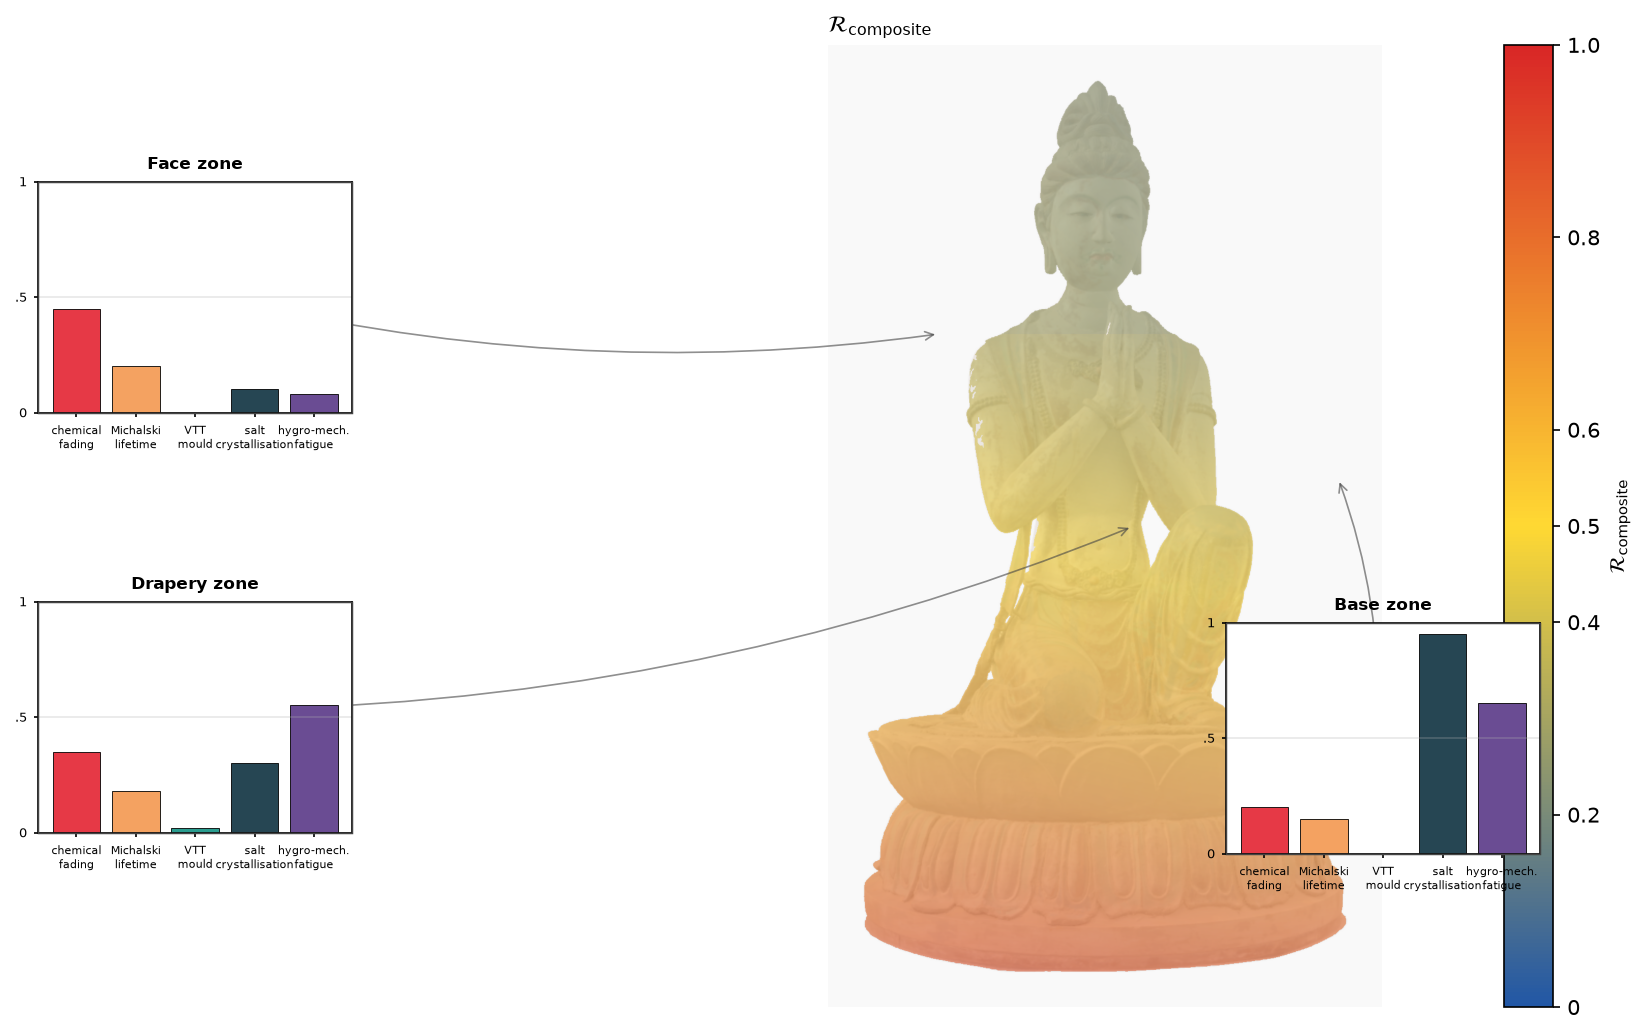
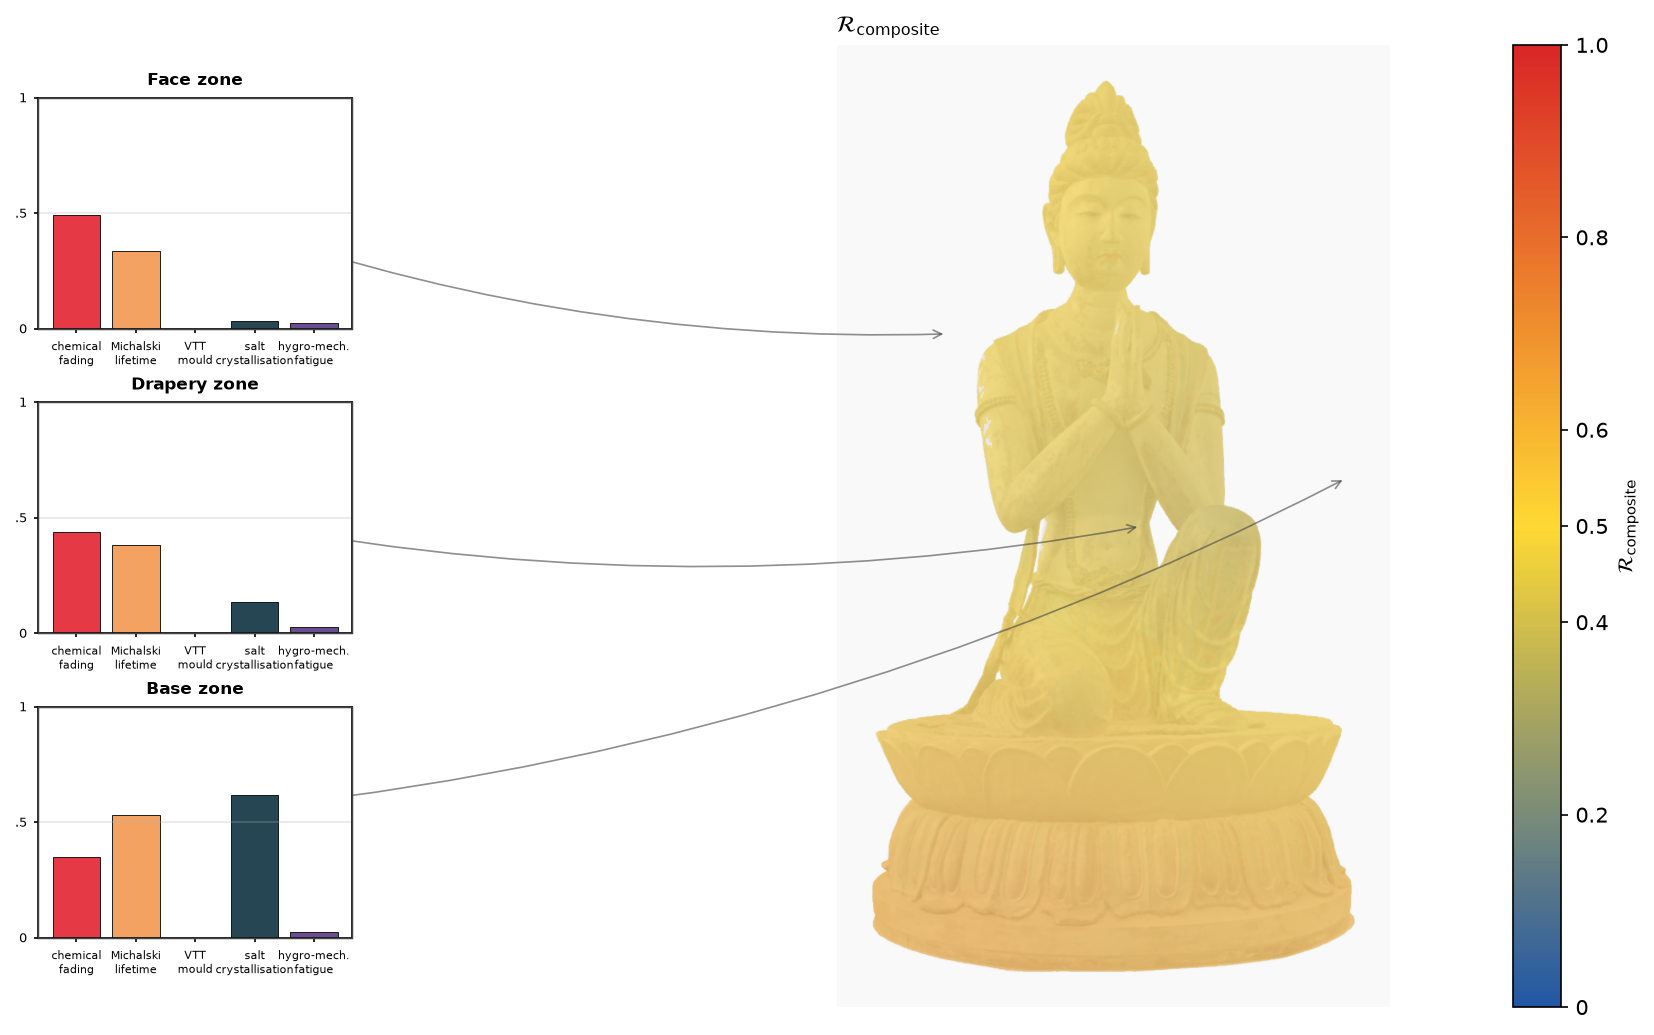
runtime+experiments: phase-correct salt cycle accrual in replay; figure/table data emitters
Fix DeteriorationReplayService salt accrual: replace the buggy edge test
(!isCrystallising === false) with proper wet→dry half-cycle detection, and use
the same phase-correct, ν-scaled Steiger pressure model as saltCrystallization()
(mirabilite/thenardite switch, SALT_DEFAULTS ν and tensile strength), Miner-style
per-half-cycle damage. Under a sub-deliquescent interior there are no edges, so
saltCum stays 0 — matching the paper's temporal-vs-spatial (α_s) salt narrative.

Add runtime-sourced data emitters so paper artefacts can't drift from the code:
_emit_composite_zone_data.js (Fig. composite zones) and _emit_preset_table.js
(Table 1 from the SimulationEngine preset catalog). Cap the mogao200 preset daily
ΔRH at the monitored monsoon peak (~10%). Refresh composite/salt/validation figures.

diff --git a/backend/runtime/services/domain/DeteriorationReplayService.js b/backend/runtime/services/domain/DeteriorationReplayService.js
@@ -175,20 +175,36 @@ function runReplay(dailyBuckets, opts = {}) {
         mouldIndex = Math.max(0, Math.min(6, mouldIndex + mouldRate * 1));
 
         // --- Salt ----------------------------------------------------------
+        // Salt damage is accrued per dissolution→crystallisation cycle following the
+        // Grossi–Brimblecombe / Steiger treatment (Methods Model 5, Supplementary S4),
+        // using the SAME phase-correct, ν-scaled pressure model as saltCrystallization()
+        // in DeteriorationService (mirabilite/thenardite switch at the peritectic; tensile
+        // strength and ν from SALT_DEFAULTS). A wet→dry EDGE is one half-cycle; damage is
+        // added only on that transition, scaled by the Miner-style per-cycle ratio. Under a
+        // persistently sub-deliquescent interior (RH < DRH year-round) there are no edges,
+        // so saltCum stays 0 and no calendar ETA is produced — matching the paper's salt
+        // narrative (Results: zero wet–dry cycles; hazard is spatial via alpha_s, not temporal).
         const DRH = D.saltDeliquescenceRH(T, saltP);
         const isCrystallising = RH < DRH;
-        // Count an event on a wet→dry edge (dissolution→crystallisation cycle)
-        if (prevRHAbove === true && !isCrystallising === false) saltEvents += 1;
-        if (prevRHAbove !== null && prevRHAbove === false && isCrystallising === true) saltEvents += 1;
-        prevRHAbove = !isCrystallising;
-        // Per-event damage proxy: supersaturation at the moment of event
-        if (isCrystallising && RH > 0) {
-            const S = (DRH / 100) / (RH / 100);
-            const pressureMPa = ((R * (T + 273.15)) / (saltP.Vm ?? 5.33e-5)) * Math.log(S) / 1e6;
-            const tensile = saltP.tensileStrength ?? 3.0;
-            // Normalise: pressure/tensile per day, scaled by small daily factor
-            saltCum += Math.max(0, (pressureMPa - tensile)) / tensile * 0.0001;
+        // Detect a dissolution→crystallisation edge (wet→dry): one half-cycle event.
+        const crystallisationEdge =
+            prevRHAbove === true && isCrystallising === true;
+        if (crystallisationEdge) {
+            saltEvents += 1;
+            if (RH > 0) {
+                const phase = D.saltPhase(T, saltP);
+                const nu = (saltP.nu ?? D.SALT_DEFAULTS.nu);
+                const tensile = (saltP.tensileStrength ?? D.SALT_DEFAULTS.tensileStrength);
+                const S = (DRH / 100) / (RH / 100);
+                const pressureMPa = ((nu * R * (T + 273.15)) / phase.Vm) * Math.log(S) / 1e6;
+                // Miner-style per-half-cycle damage: (Δp/σ_t) × 0.5 cycle, capped per event.
+                const damageRatio = Math.max(0, pressureMPa) / tensile;
+                saltCum += Math.min(damageRatio, 100) * 0.5;
+            }
         }
+        // Track the RH-vs-DRH state for the NEXT step's edge detection:
+        // prevRHAbove === true means "was above DRH (dissolved/wet)".
+        prevRHAbove = !isCrystallising;
 
         // --- Fatigue (Basquin + Miner) -------------------------------------
         if (dRH > 0.1) {

diff --git a/experiments/_emit_preset_table.js b/experiments/_emit_preset_table.js
@@ -1,0 +1,57 @@
+// Generate Table 1 (tab:preset_response) for the paper directly from the
+// runtime. Preset parameters are parsed out of the single source of truth,
+// frontend/services/SimulationEngine.js, so this table can never silently
+// drift from the deployed presets. Prints both a human-readable table and the
+// LaTeX data rows to paste into Results.tex.
+//
+// Column model masks (which mechanisms each preset lists) follow the `models`
+// array of each preset; a mechanism not listed is rendered as "---".
+const fs = require('fs');
+const D = require('../backend/runtime/services/domain/DeteriorationService.js');
+const yr = 365.25;
+
+const SRC = fs.readFileSync(__dirname + '/../frontend/services/SimulationEngine.js', 'utf8');
+// Which presets appear in the paper table, and in what order:
+const ROWS = ['museum', 'poorStorage', 'extreme', 'mogao200', 'tropical200',
+              'demoChemical', 'demoMould', 'demoFatigue'];
+const PRETTY = {
+  museum: 'Museum 100y', poorStorage: 'Poor Storage 50y', extreme: 'Extreme 10y',
+  mogao200: '200y Mogao', tropical200: '200y Tropical',
+  demoChemical: 'Light Exposure 50y', demoMould: 'Humid Bloom 10y',
+  demoFatigue: 'Large Swings 50y'
+};
+
+function parsePreset(key) {
+  const m = SRC.match(new RegExp(key + '\\s*:\\s*\\{([^}]*)\\}'));
+  if (!m) throw new Error('preset not found: ' + key);
+  const body = m[1];
+  const num = (f) => Number(body.match(new RegExp(f + '\\s*:\\s*(-?[0-9.]+)'))[1]);
+  const models = (body.match(/models\s*:\s*\[([^\]]*)\]/)[1].match(/'([^']+)'/g) || [])
+                   .map((s) => s.replace(/'/g, ''));
+  return { temp: num('temp'), rh: num('rh'), years: num('years'),
+           light: num('light'), amp: num('rhAmplitude'), models };
+}
+
+const f = (x, d = 1) => (x == null ? '---' : (+x).toFixed(d));
+const tex = [];
+console.log('preset               | chem% | LM   | M/6 | saltMPa | D');
+for (const key of ROWS) {
+  const p = parsePreset(key);
+  const c = D.assess({ T_celsius: p.temp, RH_percent: p.rh, light_klux: p.light,
+                       totalDays: p.years * yr, RH_amplitude: p.amp });
+  const has = (m) => p.models.includes(m);
+  const chem = has('chemical') ? c.chemical?.scientificDegradation : null;
+  const lm   = has('lifetime') ? c.lifetime?.multiplier : null;
+  const mould= has('mould')    ? c.mould?.mouldIndex : null;
+  const salt = has('salt')     ? c.saltCryst?.pressure_MPa : null;
+  const fat  = has('fatigue')  ? c.fatigue?.cumulativeDamage : null;
+  const name = PRETTY[key];
+  console.log(`${name.padEnd(20)} | ${f(chem)} | ${f(lm,2)} | ${f(mould,1)} | ${f(salt)} | ${f(fat,3)}`);
+  // LaTeX row: round to the table's display precision
+  const tf = (x, d) => (x == null ? '---' : (+x).toFixed(d));
+  const chemR = chem == null ? '---' : Math.round(chem);
+  const saltR = salt == null ? '---' : Math.round(salt);
+  tex.push(`${name.padEnd(18)}& ${String(chemR).padEnd(4)} & ${tf(lm,1).padEnd(4)} & ${tf(mould,1).padEnd(3)} & ${String(saltR).padEnd(4)} & ${tf(fat,3)} \\\\`);
+}
+console.log('\n--- LaTeX rows ---');
+console.log(tex.join('\n'));

diff --git a/frontend/services/SimulationEngine.js b/frontend/services/SimulationEngine.js
@@ -38,7 +38,7 @@ export const PRESET_CATALOG = {
     poorStorage: { temp: 30, rh: 80,  years: 50,  light: 5,    rhAmplitude: 20, label: 'Poor Storage 50y',            models: ['chemical', 'lifetime', 'mould', 'salt', 'fatigue'] },
     extreme:     { temp: 40, rh: 100, years: 10,  light: 30,   rhAmplitude: 30, label: 'Extreme 10y',                 models: ['chemical', 'lifetime', 'mould', 'fatigue'] },
     longTerm200: { temp: 20, rh: 50,  years: 200, light: 0.15, rhAmplitude: 5,  label: '200y Museum',                 models: ['chemical', 'lifetime', 'mould', 'salt', 'fatigue'] },
-    mogao200:    { temp: 13, rh: 35,  years: 200, light: 2,    rhAmplitude: 15, label: '200y Mogao (cold/dry)',       models: ['chemical', 'lifetime', 'mould', 'salt', 'fatigue'] },
+    mogao200:    { temp: 13, rh: 35,  years: 200, light: 2,    rhAmplitude: 10, label: '200y Mogao (cold/dry)',       models: ['chemical', 'lifetime', 'mould', 'salt', 'fatigue'] }, // daily dRH capped at the monitored monsoon-peak (~10%); dry-season is ~5% (Cave 71 record)
     tropical200: { temp: 28, rh: 75,  years: 200, light: 5,    rhAmplitude: 20, label: '200y Tropical (humid/warm)',  models: ['chemical', 'lifetime', 'mould', 'salt', 'fatigue'] },
     demoChemical: { temp: 25, rh: 50, years: 50,  light: 20,   rhAmplitude: 10, label: '⚗ Light Exposure Test 50y',   models: ['chemical'] },
     demoLifetime: { temp: 5,  rh: 35, years: 200, light: 0,    rhAmplitude: 5,  label: '⏳ Cold Dry Archive 200y',      models: ['lifetime'] },

diff --git a/experiments/_emit_composite_zone_data.js b/experiments/_emit_composite_zone_data.js
@@ -1,0 +1,17 @@
+// Emit real compositeRiskField output for the Figure 10 generator.
+// Cave-baseline interior at the paper's 200-year calibration horizon.
+const D = require('../backend/runtime/services/domain/DeteriorationService.js');
+const fs = require('fs');
+const params = { T_celsius: 13, RH_percent: 35, light_klux: 2, totalDays: 200 * 365.25, RH_amplitude: 10 };
+const field = D.compositeRiskField(params);
+const out = {
+  params,
+  zones: field.map(z => ({
+    id: z.id, name: z.name, height: z.height, RH_local: z.RH_local,
+    saltAvailability: z.saltAvailability,
+    composite: z.composite.value, dominant: z.composite.dominant,
+    components: z.composite.components
+  }))
+};
+fs.writeFileSync(__dirname + '/composite_zone_data.json', JSON.stringify(out, null, 2));
+console.log(JSON.stringify(out, null, 2));

diff --git a/experiments/_make_figure_composite.py b/experiments/_make_figure_composite.py
@@ -1,27 +1,38 @@
-"""Generate Figure 9 (fig:composite) for the paper: composite
-deterioration index R_composite mapped onto the central Buddha
-statue with per-zone bar-chart insets.
+"""Generate Figure 10 (fig:composite) for the paper: composite
+deterioration index R_composite mapped onto the sculpture, with
+per-zone bar-chart insets.
 
-This is a 2D representation of the framework's 3D composite-risk
-overlay output, suitable for the paper figure. A vertical risk
-gradient is overlaid on the baseline statue image -- highest at the
-base (salt + hygro-mechanical fatigue act synergistically), moderate
-through the drapery (mixed mechanisms), low at the face/crown
-(per-pigment chemical fading dominates but at lower magnitude).
-
-The per-zone bar-chart insets show the per-model contributions
-described in the Results subsection: base dominated by salt; drapery
-dominated by fatigue; face dominated by chemical fading. The values
-are illustrative -- representative of what the framework outputs
-under the monitored climate -- not direct measurements.
+The three anchor zones (base, torso/drapery, face/crown) and their
+per-mechanism sub-index breakdown are the REAL output of the runtime's
+`compositeRiskField()` at the cave-baseline interior over the 200-year
+calibration horizon (T = 13 C, RH = 35 %, 2 klux). Those values are
+precomputed by `_emit_composite_zone_data.js` into
+`composite_zone_data.json` and loaded here; the vertical risk profile
+overlaid on the statue is a smooth interpolation between the three
+computed anchor points (base highest, driven by capillary salt
+availability; face second, driven by per-pigment chemical fading under
+light exposure), and each inset bar chart plots that zone's five
+computed normalised sub-indices. The vertical placement between anchors
+is a schematic of the loading pattern, not a per-vertex simulation.
 
 Output: experiments/composite_risk_map.png
 """
+import json
+import os
 import numpy as np
 import matplotlib.pyplot as plt
 from matplotlib.colors import LinearSegmentedColormap, Normalize
 from matplotlib.cm import ScalarMappable
 from PIL import Image
+
+# --- Load the REAL per-zone composite output ---------------------------------
+_here = os.path.dirname(os.path.abspath(__file__))
+with open(os.path.join(_here, "composite_zone_data.json")) as _f:
+    ZONE_DATA = json.load(_f)
+# order base (low) -> face (high) by height
+ZONES = sorted(ZONE_DATA["zones"], key=lambda z: z["height"])
+print("Loaded computed zones:",
+      {z["id"]: round(z["composite"], 3) for z in ZONES})
 
 # Baseline statue image
 baseline = np.array(Image.open(
@@ -36,25 +47,20 @@ print(f"Image: {H}x{W}")
 y_norm = np.arange(H) / H  # 0 (top) to 1 (bottom)
 x_norm = (np.arange(W) - W / 2) / (W / 2)  # -1 (left) to +1 (right)
 
-# Vertical risk profile -- approximation of the spatial pattern described
-# in the Results composite-risk subsection
+# Vertical risk profile -- linear interpolation between the three COMPUTED
+# anchor zones. compositeRiskField reports each zone at a normalised height
+# above the base (0 = base contact, 1 = crown); the statue image runs
+# y_img = 0 (top/crown) to 1 (bottom/base), so image height maps as
+# h = 1 - y_img. Interpolating R_composite(h) between the computed anchors
+# makes the overlaid gradient a render of the runtime output rather than a
+# hand-drawn curve.
+_anchor_h = np.array([z["height"] for z in ZONES])          # ascending
+_anchor_R = np.array([z["composite"] for z in ZONES])
+
 def vertical_risk(y):
-    """y in [0, 1] from top to bottom."""
-    # Crown / face: low (~0.25)
-    # Body / drapery: moderate (~0.45-0.55)
-    # Lower drapery / base: high (~0.75-0.9)
-    if y < 0.30:
-        # Face/crown
-        return 0.22 + 0.05 * y / 0.30
-    elif y < 0.55:
-        # Upper body
-        return 0.30 + 0.20 * (y - 0.30) / 0.25
-    elif y < 0.80:
-        # Drapery folds
-        return 0.50 + 0.20 * (y - 0.55) / 0.25
-    else:
-        # Base
-        return 0.70 + 0.20 * (y - 0.80) / 0.20
+    """y in [0, 1] from top (crown) to bottom (base)."""
+    h = 1.0 - y                                             # normalised height
+    return float(np.interp(h, _anchor_h, _anchor_R))
 
 R_grid = np.zeros((H, W))
 for i in range(H):
@@ -100,15 +106,19 @@ mechanisms = ["chemical\nfading", "Michalski\nlifetime", "VTT\nmould",
               "salt\ncrystallisation", "hygro-mech.\nfatigue"]
 colours = ["#E63946", "#F4A261", "#2A9D8F", "#264653", "#6A4C93"]
 
+# Real per-zone sub-index vectors [chemical, lifetime, mould, salt, fatigue]
+# from compositeRiskField (composite_zone_data.json).
+_comp_order = ["chemical", "lifetime", "mould", "salt", "fatigue"]
+_by_id = {z["id"]: z for z in ZONES}
 zone_contributions = {
-    "Face": [0.45, 0.20, 0.00, 0.10, 0.08],
-    "Drapery": [0.35, 0.18, 0.02, 0.30, 0.55],
-    "Base": [0.20, 0.15, 0.00, 0.95, 0.65],
+    "Face":    [_by_id["face"]["components"][k] for k in _comp_order],
+    "Drapery": [_by_id["torso"]["components"][k] for k in _comp_order],
+    "Base":    [_by_id["base"]["components"][k] for k in _comp_order],
 }
 zone_positions = {
-    "Face":    {"img_xy": (0.30, 0.20), "inset_xy": (0.02, 0.60, 0.19, 0.22)},
-    "Drapery": {"img_xy": (0.50, 0.55), "inset_xy": (0.02, 0.20, 0.19, 0.22)},
-    "Base":    {"img_xy": (0.45, 0.92), "inset_xy": (0.74, 0.18, 0.19, 0.22)},
+    "Face":    {"img_xy": (0.30, 0.20), "inset_xy": (0.015, 0.68, 0.19, 0.22)},
+    "Drapery": {"img_xy": (0.50, 0.55), "inset_xy": (0.015, 0.39, 0.19, 0.22)},
+    "Base":    {"img_xy": (0.45, 0.92), "inset_xy": (0.015, 0.10, 0.19, 0.22)},
 }
 
 for zname, vals in zone_contributions.items():

diff --git a/experiments/_fig_validation.py b/experiments/_fig_validation.py
@@ -5,7 +5,7 @@ Two panels:
       the early measurements (days 0-12) and used to predict the late-window
       measurements (days 25/27/31/34). Each point is a (spot, test-day) pair,
       predicted vs observed DeltaE*_ab, colour-coded by environmental arm. The
-      dashed line is y = x (perfect prediction). RMSE / MAE / R^2 are computed
+      dashed line is y = x (perfect prediction). RMSE / MAE / Q^2 (out-of-sample) are computed
       here from the recovered (definitive) measured data at run time.
   (b) Room/chamber fade-rate ratios with bootstrap 95% CIs (vermilion ~2.0,
       azurite ~1.7, malachite ~1.5; per-spot linear DeltaE*(t) slopes over the
@@ -147,7 +147,7 @@ axA.set_ylabel(r"predicted $\Delta E^*_{ab}$ (from days 0--12 rate)")
 axA.set_title("(a) Time-window cross-validation", loc="left", fontsize=10, fontweight="bold")
 axA.legend(fontsize=7.5, frameon=False, loc="upper left")
 axA.text(0.97, 0.05,
-         f"RMSE $= {stats['rmse']:.2f}$\nMAE $= {stats['mae']:.2f}$\n$R^2 = {stats['r2']:.1f}$  ($n={stats['n']}$)",
+         f"RMSE $= {stats['rmse']:.2f}$\nMAE $= {stats['mae']:.2f}$\n$Q^2 = {stats['r2']:.1f}$  ($n={stats['n']}$)",
          transform=axA.transAxes, ha="right", va="bottom", fontsize=8.5, color=INK,
          bbox=dict(boxstyle="round,pad=0.35", fc="white", ec="#CCCCCC", lw=0.8))
 axA.grid(True, color="#EEEEEE", lw=0.6, zorder=0)

diff --git a/experiments/_make_figure_salt.py b/experiments/_make_figure_salt.py
@@ -184,9 +184,9 @@ ax.fill_between(rep, RH_year, drh_mir_year, where=(drh_mir_year > RH_year),
                 color="#2E86AB", alpha=0.12,
                 label="supersaturation gap (always $>0$)")
 ax.axhline(80.0, color="#2E86AB", lw=0.8, ls="--", alpha=0.6,
-           label="measured $RH$ ceiling (80\\%)")
+           label="measured $RH$ ceiling (80%)")
 ax.set_xlabel("Day of year")
-ax.set_ylabel("Relative humidity (\\%)")
+ax.set_ylabel("Relative humidity (%)")
 ax.set_title(r"(b) Interior $RH$ vs deliquescence threshold", loc="left", fontsize=10, fontweight="bold")
 ax.set_xlim(0, 365)
 ax.set_ylim(0, 100)
